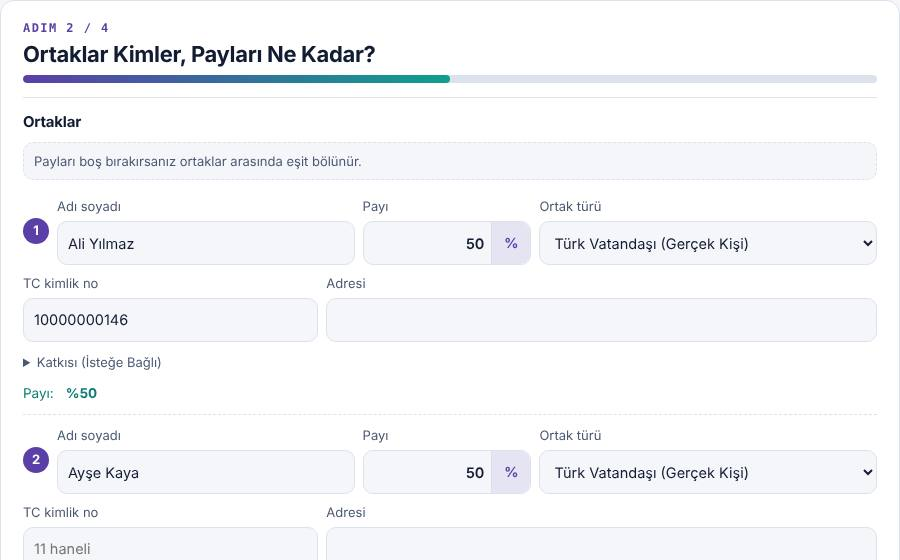
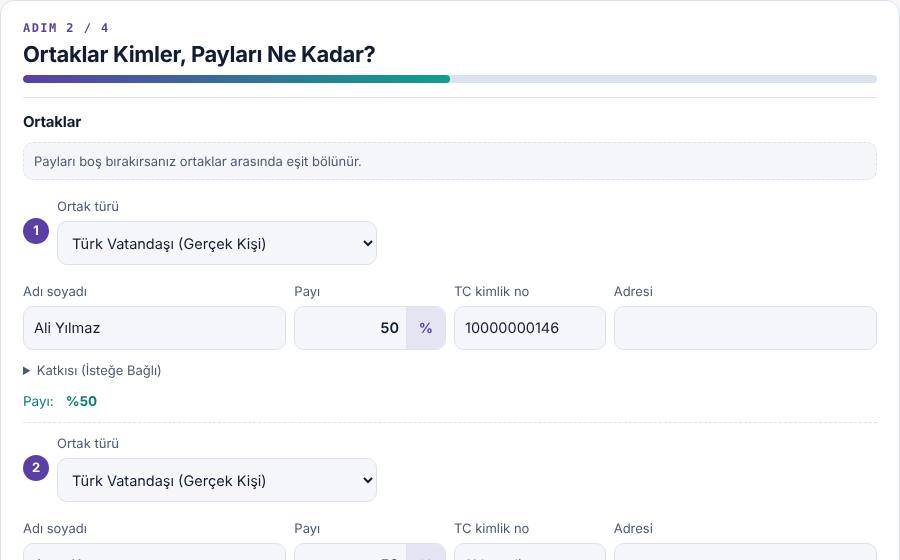
Ortak türü her ortağın başında
Claude-Session: https://claude.ai/code/session_018UFAVAkLcBcEWp4f4jsZc1

diff --git a/site/index.html b/site/index.html
@@ -1199,6 +1199,7 @@ section[data-view],[id^="h-"],[id^="d-"],[id^="x-"],[id^="p-"]{scroll-margin-top
 .es-block{margin:12px 0;padding:12px 14px;border-radius:12px;background:#FFF1EF;border:2px solid #E5484D;color:#B42318;font-size:14.5px}.es-block[hidden]{display:none}.es-block ul{margin:6px 0 0 18px;padding:0}.es-block li{margin:2px 0;font-weight:600}.shk{animation:shk .45s}@keyframes shk{20%,60%{transform:translateX(-6px)}40%,80%{transform:translateX(6px)}}
 .hlp-img img{width:100%;height:auto;max-height:260px;object-fit:cover;object-position:top;display:block;border-radius:10px;border:1px solid var(--rule);background:#fff}
 .bsl[role=button]{cursor:pointer}.bsl[role=button]:hover{filter:brightness(1.08)}
+.es-br{flex-basis:100%;height:0}.es-line>.es-kimf:nth-child(2){flex:0 1 320px!important}
 .by-fm{margin:10px 0 4px;padding:10px 12px;border-radius:12px;background:color-mix(in srgb,#2F4FA8 6%,var(--paper));border:1px solid color-mix(in srgb,#2F4FA8 25%,var(--rule))}.by-fm>b{display:block;font-size:13px;margin-bottom:6px}.by-fm>div{display:flex;flex-wrap:wrap;gap:6px}.by-fm a{display:inline-flex;align-items:center;gap:6px;padding:6px 10px;border-radius:10px;font-size:13.5px;text-decoration:none;font-weight:600}.by-gib{background:var(--paper);border:1px solid var(--rule);color:var(--ink)}.by-gib i{font-style:normal;font-size:11px;font-weight:700;color:#fff;background:#217346;border-radius:6px;padding:2px 6px}.by-arac{background:#5B3FA8;color:#fff!important}.by-ft td:last-child{white-space:nowrap}
 .or-tb td{vertical-align:top;font-size:14px}.or-tb td:first-child{white-space:nowrap}.or-tb th{text-align:left}.or-vg{margin:12px 0 4px;padding:14px 16px;border-radius:14px;background:color-mix(in srgb,#B45309 8%,var(--paper));border:1px solid color-mix(in srgb,#B45309 30%,var(--rule))}.or-vg h4{margin:0 0 8px;font-size:17px}.or-vg ul{margin:0 0 8px 18px;padding:0;font-size:14.5px;line-height:1.55}.or-vg li{margin:0 0 6px}.or-vg a{font-weight:700;font-size:14px}
 .ppl{display:grid;gap:8px}.ppl-r{display:grid;grid-template-columns:minmax(0,1fr) minmax(0,1fr) 36px;gap:6px;align-items:center;padding:8px;border:1px solid var(--rule);border-radius:12px}.ppl-r input[data-c="2"]{grid-column:1/3}.cmb-t{margin:6px 2px 0;font-size:13px;line-height:1.45;color:var(--ink-2)}.ppl-r input,.ppl-r select{width:100%;min-width:0;padding:9px 10px;border:1px solid var(--rule);border-radius:10px;font:inherit;font-size:14px;background:var(--paper);color:var(--ink)}.ppl-x{grid-row:1;grid-column:3;border:1px solid var(--rule);background:transparent;border-radius:9px;height:36px;cursor:pointer;color:var(--ink-2)}.ppl-x:hover{color:#c0392b;border-color:#c0392b}.ppl-add{display:flex;flex-wrap:wrap;gap:6px;margin-top:2px}.cmb-m{margin-top:6px}
@@ -5225,7 +5226,7 @@ window.ekKimErr=function(k){var v=String(k.kimlik||'');if(!v)return '';var t=k.t
   if(v.length!==11)return 'TC kimlik no 11 haneli olmalı (şu an '+v.length+' hane).';if(!ekTC(v))return 'TC kimlik no hatalı görünüyor; kontrol edin.';return '';};
 window.ekKimHtml=function(i,k,e){var t=k.tip||'gk',pre=e.pre||'',O=[['gk','Türk vatandaşı (gerçek kişi)'],['yk','Yabancı uyruklu kişi'],['tk','Türk şirketi (tüzel kişi)'],['yt','Yabancı şirket']];
   function inp(c,lab,ph,mx,hint){return '<label class="fb-f"><span>'+lab+'</span><input data-l="kur" data-i="'+i+'" data-c="'+c+'"'+(mx?' data-kim="'+mx+'" inputmode="numeric" maxlength="'+mx+'"':'')+' value="'+e(k[c]||'')+'" placeholder="'+e(ph||'')+'">'+(hint?'<small>'+e(hint)+'</small>':'')+'</label>';}
-  var h='<label class="fb-f es-kimf"><span>Ortak türü</span><select data-l="kur" data-i="'+i+'" data-c="tip" data-re="1">'+O.map(function(o){return '<option value="'+o[0]+'"'+(o[0]===t?' selected':'')+'>'+o[1]+'</option>';}).join('')+'</select></label>';
+  var sel='<label class="fb-f es-kimf"><span>Ortak türü</span><select data-l="kur" data-i="'+i+'" data-c="tip" data-re="1">'+O.map(function(o){return '<option value="'+o[0]+'"'+(o[0]===t?' selected':'')+'>'+o[1]+'</option>';}).join('')+'</select></label>';if(e.mode==='tur')return sel;var h=e.mode==='kim'?'':sel;
   if(t==='gk')h+=inp('kimlik','TC kimlik no','11 haneli',11);
   if(t==='tk')h+=inp('kimlik','Vergi no','10 haneli',10)+inp('mersis','MERSİS no (isteğe bağlı)','16 haneli',16);
   if(t==='yk')h+=inp('uy','Uyruğu','Almanya')+inp('pas','Pasaport no','')+inp('kimlik','Yabancı kimlik no ya da vergi no','99… (11) ya da 10 hane',11,'Türkiye’den alınmış olmalı');
@@ -5337,8 +5338,8 @@ window.ekYuzMsg=function(K){var Y=K.map(function(k){return num(k.yuz);}),any=Y.s
      +'<div class="fb-sec"><h4>Merkez</h4><div class="fb-row">'+fld('il','İl',{ph:'İstanbul'})+fld('ilce','İlçe',{ph:'Kadıköy'})+fld('adres','Açık adres',{w:1,ph:'Caferağa Mah. Moda Cad. No: 1 Daire: 2'})+'</div></div>';
    if(step===2){var v=itb(),S=sermaye(),q=yuzL();return '<div class="fb-sec'+(S||st.pm==='adet'?'':' es-need')+'"><h4>Sermaye</h4><div class="fb-row">'+fld('ser','Şirketin sermayesi (buraya yazın)',{type:'money',ph:ltd?'ör. 50.000':'ör. 250.000',hint:(ltd?'Limited şirkette en az 50.000 TL.':'Anonim şirkette en az 250.000 TL.')+(st.pm==='adet'?' Boş bırakırsanız pay adetlerinden hesaplanır.':' Pay adedi kendiliğinden hesaplanır (sermaye ÷ '+mny(v)+' TL).')})
        +fld('odeme','Sermaye ne zaman ödenecek?',{type:'select',opts:ltd?[['sonra','Kuruluştan sonra (en geç 24 ay içinde)'],['once','Tamamı kuruluştan önce ödendi']]:[['sonra','%25’i kuruluştan önce, kalanı sonra'],['once','Tamamı kuruluştan önce ödendi']]})+(st.odeme==='sonra'?fld('ay','Kaç ay içinde?',{ph:'24'}):'')+'</div></div>'
-       +'<div class="fb-sec"><h4>'+(ltd?'Ortaklar':'Pay sahipleri')+'</h4>'+'<div class="es-seg" role="group" aria-label="Pay giriş şekli"><span>Ortakların payını nasıl yazacaksınız?</span><button type="button" data-pm="yuz" class="'+(st.pm!=='tut'?'on':'')+'">Yüzde olarak (%51 gibi)</button><button type="button" data-pm="tut" class="'+(st.pm==='tut'?'on':'')+'">Tutar olarak (TL)</button><button type="button" data-pm="adet" class="'+(st.pm==='adet'?'on':'')+'">Pay adedi olarak</button></div>'+(st.pm==='adet'?'<p class="fb-tip">Her payın değeri '+mny(v)+' TL. Örneğin 2.000 pay = '+mny(2000*v)+' TL. Pay değerini aşağıdan değiştirebilirsiniz.</p>':'')+(st.kur.length>1&&st.pm!=='tut'&&st.pm!=='adet'?'<p class="fb-tip">Oranları boş bırakırsanız sermaye ortaklar arasında eşit bölünür.</p>':'')+st.kur.map(function(k,i){var t=tutOf(i);return '<div class="fb-line es-line"><b class="es-no">'+(i+1)+'</b>'
-       +lf('kur',i,'ad',ekTuzel(k)?'Şirketin unvanı':'Adı soyadı',{w:1})+(st.pm==='tut'?lf('kur',i,'tut','Sermaye payı',{m:1}):'')+(st.pm==='adet'?lf('kur',i,'adet','Pay adedi',{m:1,sfx:'pay',ph:'ör. 2.000'}):'')+(st.pm!=='tut'&&st.pm!=='adet'?lf('kur',i,'yuz','Hissesi',{m:1,pct:1,ph:NI(Math.round(1000/st.kur.length)/10)}):'')+ekKimHtml(i,k,e)+lf('kur',i,'adr','Adresi',{w:1})
+       +'<div class="fb-sec"><h4>'+(ltd?'Ortaklar':'Pay sahipleri')+'</h4>'+'<div class="es-seg" role="group" aria-label="Pay giriş şekli"><span>Ortakların payını nasıl yazacaksınız?</span><button type="button" data-pm="yuz" class="'+(st.pm!=='tut'?'on':'')+'">Yüzde olarak (%51 gibi)</button><button type="button" data-pm="tut" class="'+(st.pm==='tut'?'on':'')+'">Tutar olarak (TL)</button><button type="button" data-pm="adet" class="'+(st.pm==='adet'?'on':'')+'">Pay adedi olarak</button></div>'+(st.pm==='adet'?'<p class="fb-tip">Her payın değeri '+mny(v)+' TL. Örneğin 2.000 pay = '+mny(2000*v)+' TL. Pay değerini aşağıdan değiştirebilirsiniz.</p>':'')+(st.kur.length>1&&st.pm!=='tut'&&st.pm!=='adet'?'<p class="fb-tip">Oranları boş bırakırsanız sermaye ortaklar arasında eşit bölünür.</p>':'')+st.kur.map(function(k,i){var t=tutOf(i);return '<div class="fb-line es-line"><b class="es-no">'+(i+1)+'</b>'+ekKimHtml(i,k,(function(){var f=function(x){return e(x);};f.mode='tur';return f;})())+'<span class="es-br"></span>'
+       +lf('kur',i,'ad',ekTuzel(k)?'Şirketin unvanı':'Adı soyadı',{w:1})+(st.pm==='tut'?lf('kur',i,'tut','Sermaye payı',{m:1}):'')+(st.pm==='adet'?lf('kur',i,'adet','Pay adedi',{m:1,sfx:'pay',ph:'ör. 2.000'}):'')+(st.pm!=='tut'&&st.pm!=='adet'?lf('kur',i,'yuz','Hissesi',{m:1,pct:1,ph:NI(Math.round(1000/st.kur.length)/10)}):'')+ekKimHtml(i,k,(function(){var f=function(x){return e(x);};f.mode='kim';return f;})())+lf('kur',i,'adr','Adresi',{w:1})
        +'<p class="es-pay"><span id="es-pay'+i+'">'+payTxt(i)+'</span>'+(st.kur.length>1?'<button type="button" class="es-cik" data-dl="kur" data-i="'+i+'">× Bu ortağı çıkar</button>':'')+'</p></div>';}).join('')
        +'<button type="button" class="fb-add" data-a="kur">+ '+(ltd?'Ortak':'Pay sahibi')+' ekle</button>'+ekYabNot(st.kur)
        +'<p class="es-sum">Toplam: <b>'+(S?mny(S)+' TL':'—')+'</b>'+(S?' · her biri '+mny(v)+' TL değerinde '+NI(Math.round(S/v))+' pay':'')+'</p><p class="es-yw" id="es-yw">'+(st.pm!=='tut'&&st.pm!=='adet'?ekYuzMsg(st.kur):'')+'</p>'
@@ -5496,8 +5497,8 @@ document.addEventListener('focusout',function(ev){var el=ev.target;if(!el||el.ta
  function stepHtml(){var is=IS();
    if(step===0)return '<div class="fb-sec"><div class="es-tur"><button type="button" data-tur="adi" class="'+(!is?'on':'')+'"><b>Adi ortaklık</b><small>İki ya da daha fazla kişi ya da şirket, bir işi süreli veya süresiz birlikte yürütür. Tüzel kişiliği yok; vergiyi ortaklar öder.</small></button><button type="button" data-tur="is" class="'+(is?'on':'')+'"><b>İş ortaklığı</b><small>En az biri şirket olan ortaklar belli bir işi (çoğunlukla bir ihaleyi) birlikte yapar. Kurumlar vergisi mükellefi olur.</small></button></div>'
      +'<div class="or-vg"><h4>'+(is?'İş ortaklığı':'Adi ortaklık')+' vergide neye tabi?</h4><ul>'+VG[is?'is':'adi'].map(function(x){return '<li>'+x+'</li>';}).join('')+'</ul><a href="#or-karsi">Adi ortaklık, iş ortaklığı ve konsorsiyum karşılaştırması ↓</a></div></div>';
-   if(step===1)return '<div class="fb-sec"><h4>Ortaklar</h4><p class="fb-tip">Payları boş bırakırsanız ortaklar arasında eşit bölünür.</p>'+st.kur.map(function(k,i){var y=yuz(i);return '<div class="fb-line es-line"><b class="es-no">'+(i+1)+'</b>'
-       +lf('kur',i,'ad',ekTuzel(k)?'Şirketin unvanı':'Adı soyadı',{w:1})+lf('kur',i,'yuz','Payı',{m:1,pct:1,ph:NI(Math.round(10000/st.kur.length)/100)})+ekKimHtml(i,k,(function(){var f=function(x){return e(x);};f.pre='or-';return f;})())+lf('kur',i,'adr','Adresi',{w:1})
+   if(step===1)return '<div class="fb-sec"><h4>Ortaklar</h4><p class="fb-tip">Payları boş bırakırsanız ortaklar arasında eşit bölünür.</p>'+st.kur.map(function(k,i){var y=yuz(i);return '<div class="fb-line es-line"><b class="es-no">'+(i+1)+'</b>'+ekKimHtml(i,k,(function(){var f=function(x){return e(x);};f.mode='tur';return f;})())+'<span class="es-br"></span>'
+       +lf('kur',i,'ad',ekTuzel(k)?'Şirketin unvanı':'Adı soyadı',{w:1})+lf('kur',i,'yuz','Payı',{m:1,pct:1,ph:NI(Math.round(10000/st.kur.length)/100)})+ekKimHtml(i,k,(function(){var f=function(x){return e(x);};f.pre='or-';f.mode='kim';return f;})())+lf('kur',i,'adr','Adresi',{w:1})
        +'<details class="es-more"><summary>Katkısı (isteğe bağlı)</summary><div class="es-line">'+lf('kur',i,'katki','Ne koyuyor?',{w:1,ph:'200.000 TL nakit ve iş makineleri'})+'</div></details>'
        +'<p class="es-pay">Payı: <b>%'+(isFinite(y)?NI(y):'—')+'</b>'+(st.kur.length>2?'<button type="button" class="es-cik" data-dl="kur" data-i="'+i+'">× Bu ortağı çıkar</button>':'')+'</p></div>';}).join('')
        +'<button type="button" class="fb-add" data-a="kur">+ Ortak ekle</button><p class="es-yw" id="or-yw">'+ekYuzMsg(st.kur)+'</p></div>';
@@ -5581,7 +5582,7 @@ document.addEventListener('focusout',function(ev){var el=ev.target;if(!el||el.ta
   gecbeyan:{t:'Beyanname vermeme cezası nasıl hesaplanır?',s:[['ceza','1. Beyannameyi ve tarihleri seçin','Beyanname türünü, son günü ve vereceğiniz günü girin.'],['steps','2. Soruları yanıtlayın','Pişmanlıkla mı veriyorsunuz, tahakkuk ne kadar gibi kısa sorular gelir.'],['bitti','3. Toplamı görün','Vergi, gecikme zammı, usulsüzlük cezası ve SGK idari para cezası tek toplamda gösterilir; birden fazla beyanname ekleyebilirsiniz.']]},
   arackdv:{t:'Araç KDV oranı nasıl bulunur?',s:[['arac','1. Aracı seçin','Binek, kamyonet, iş makinesi gibi aracın türünü seçin.'],['steps','2. Soruları yanıtlayın','İkinci el mi, satıcı galeri mi gibi sorular gelir.'],['bitti','3. Sonuç','KDV oranı, dayanağı, alıcının indirimi ve muhasebe kaydı açılır.']]}
  };
- var SH={esas:['esas-0','esas-0','esas-1','esas-2','esas-2',null,'esas-3','esas-4','esas-6',null],ortaklik:['or-0','or-0','or-1',null,'or-2','or-4',null],sirket:['sk-0','sk-1','sk-2','sk-3',null],gecbeyan:['gb-0','gb-1',null],arackdv:['ak-0','ak-1',null]},VER='202611111633';
+ var SH={esas:['esas-0','esas-0','esas-1','esas-2','esas-2',null,'esas-3','esas-4','esas-6',null],ortaklik:['or-0','or-0','or-1',null,'or-2','or-4',null],sirket:['sk-0','sk-1','sk-2','sk-3',null],gecbeyan:['gb-0','gb-1',null],arackdv:['ak-0','ak-1',null]},VER='202611111640';
  var MAP={sirket:'sirket',amackonu:'esas',ortaklik:'ortaklik',gecbeyan:'gecbeyan',arackdv:'arackdv'};
  function open(key){var h=H[key];if(!h)return;var m=document.getElementById('hlp-modal');if(!m){m=document.createElement('div');m.id='hlp-modal';m.setAttribute('role','dialog');m.setAttribute('aria-modal','true');document.body.appendChild(m);
      m.addEventListener('click',function(e){if(e.target===m||e.target.closest('[data-hx]')){m.hidden=true;document.documentElement.style.overflow='';}});document.addEventListener('keydown',function(e){if(e.key==='Escape'&&!m.hidden){m.hidden=true;document.documentElement.style.overflow='';}});}
